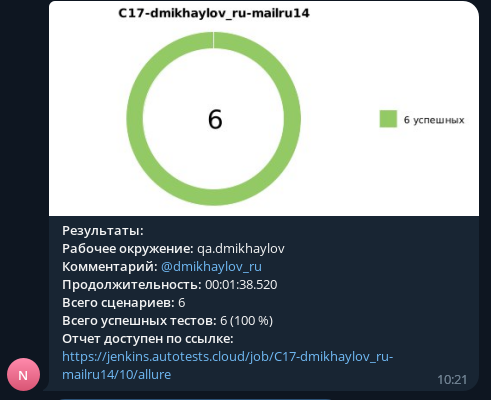
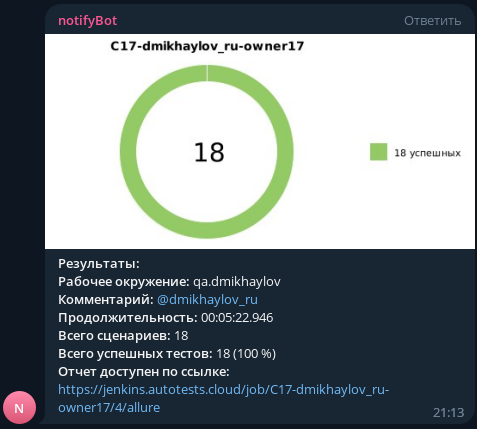
edited readme

diff --git a/README.md b/README.md
@@ -3,6 +3,7 @@
 ## :scroll: Содержание
 - [Технологии и инструменты](#pushpin-технологии-и-инструменты)
 - [Запуск тестов](#pushpin-запуск-тестов)
+- [Конфигурация тестов](#pushpin-конфигурация-тестов)
 - [Описание параметров для сборки](#pushpin-описание-параметров-для-сборки)
 - [Задача в Jenkins](#pushpin-задача-в-jenkins)
 - [Отчёт Allure](#pushpin-отчёт-allure)
@@ -52,28 +53,14 @@
 - <code>ENV</code> окружение, в котором запускаютя тесты, по умолчанию remote
 
 ## :pushpin: Задача в Jenkins
-<a href="https://jenkins.autotests.cloud/job/C17-dmikhaylov_ru-mailru14/"><img src="readme/screenshots/jenkins.png" alt="Задача в jenkins"></a>
+<a href="https://jenkins.autotests.cloud/job/C17-dmikhaylov_ru-owner17/"><img src="readme/screenshots/jenkins.png" alt="Задача в jenkins"></a>
 
 ## :pushpin: Отчёт Allure
 <img src="readme/screenshots/allure_overview.png" alt="Allure_overview"/>
 <img src="readme/screenshots/allure_suites.png" alt="Allure_suites"/>
 <img src="readme/screenshots/allure_graphs.png" alt="Allure_graphs"/>
 
-## :pushpin: Allure TO
-### Автоматические тест-кейсы
-<a href="https://allure.autotests.cloud/project/2049/test-cases?treeId=3950"><img src="readme/screenshots/allure_to_testcases.png" alt="Allure_to_testcases"/></a>
-
-### Создание ручного тест-кейса
-<img src="readme/screenshots/allure_to_manual.png" alt="Allure_to_manual"/>
-
-## :pushpin: Задача в JIRA
-<a href="https://jira.autotests.cloud/browse/HOMEWORK-606"><img src="readme/screenshots/jira.png" alt="jira"/></a>
-
 ## :pushpin: Отчёт Telegram
 <img src="readme/screenshots/telegram.png" alt="telegram"/>
-
-## :pushpin: Видео прохождения тест-кейса
-<img src="readme/video/jenkins.gif" alt="gif"/>
-
 
 [Вернуться к содержанию](#scroll-содержание)
